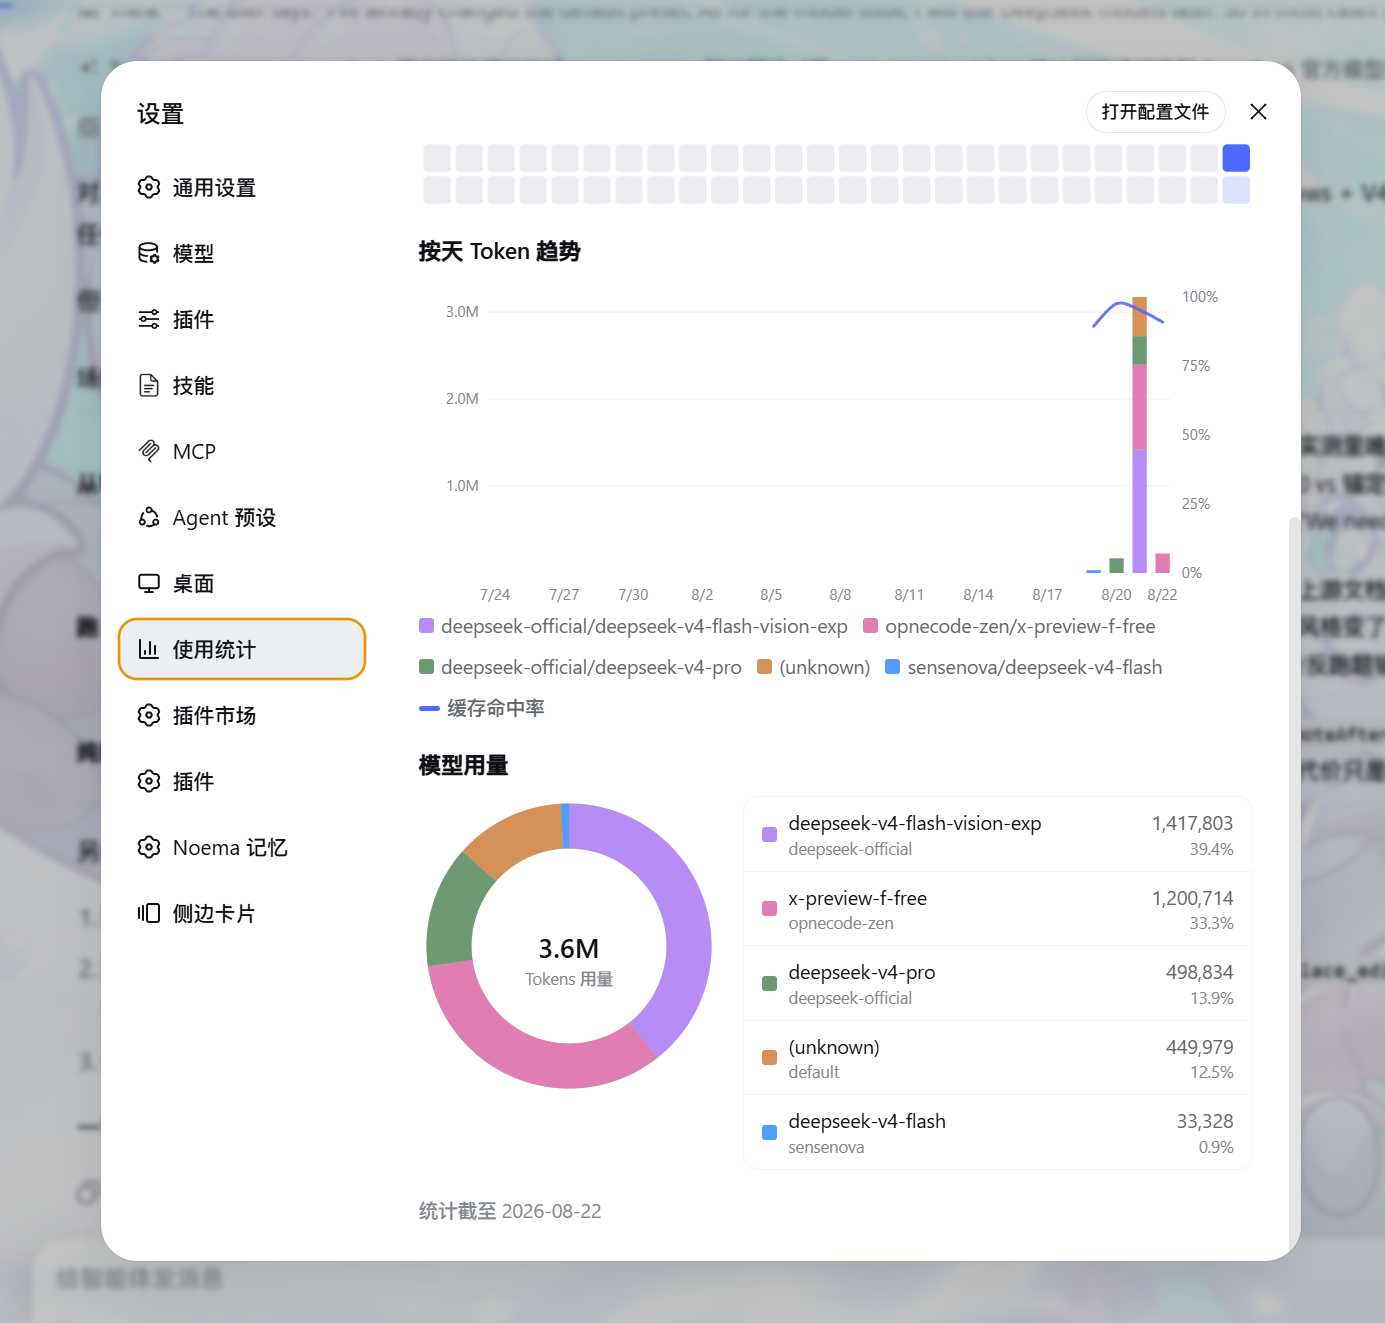
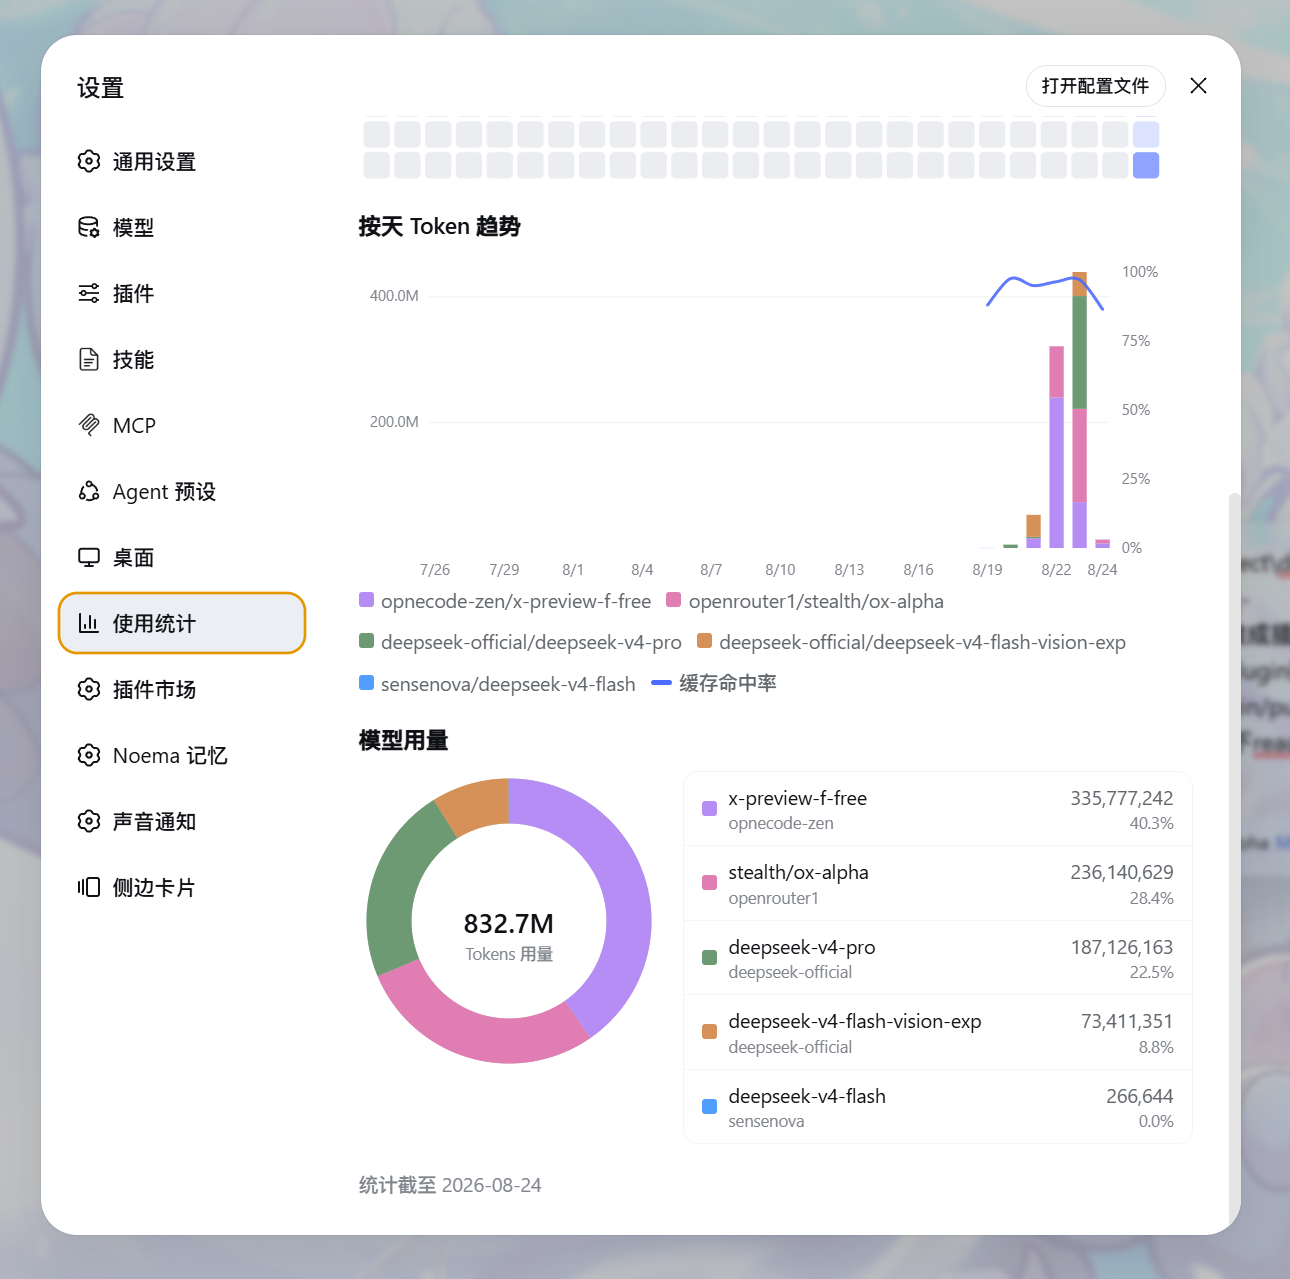
docs: add awesome-dsh-plugin badge and refresh README screenshots
Add the Awesome DSH Plugin marketplace badge (the plugin is now listed,
PR #2618 merged) and replace the two preview images with fresh screenshots
of the redesigned panel. Storefront display images (assets/screenshots)
are untouched.

Changed region(s): [[0.0, 0.0, 1.0, 1.0], [0.8372, 0.6099, 0.8992, 0.8843], [0.2791, 0.1525, 0.4341, 0.2439]]

diff --git a/README_EN.md b/README_EN.md
@@ -7,6 +7,7 @@ English | [中文](README.md)
 ![License](https://img.shields.io/github/license/HaoyueQin/dsh-usage-statistics-panel)
 ![TypeScript](https://img.shields.io/badge/TypeScript-5.6-blue)
 ![dsh-plugin](https://img.shields.io/badge/dsh-plugin-4D6BFE)
+[![Awesome DSH Plugin](https://awesome-dsh-plugin.com/badge.svg)](https://awesome-dsh-plugin.com)
 
 A usage statistics panel plugin for the DSH web UI: per-day token trend, a GitHub-style activity heatmap, a cache hit-rate curve, and a per-model breakdown (donut + list), added as a "Usage statistics" page in Settings.
 

diff --git a/README.md b/README.md
@@ -7,6 +7,7 @@
 ![License](https://img.shields.io/github/license/HaoyueQin/dsh-usage-statistics-panel)
 ![TypeScript](https://img.shields.io/badge/TypeScript-5.6-blue)
 ![dsh-plugin](https://img.shields.io/badge/dsh-plugin-4D6BFE)
+[![Awesome DSH Plugin](https://awesome-dsh-plugin.com/badge.svg)](https://awesome-dsh-plugin.com)
 
 DSH web 插件的用量统计面板：按天 Token 趋势、GitHub 风格活跃热力图、缓存命中率曲线、按模型用量拆分（环形图 + 列表），在设置页新增一个"使用统计"页面。
 
